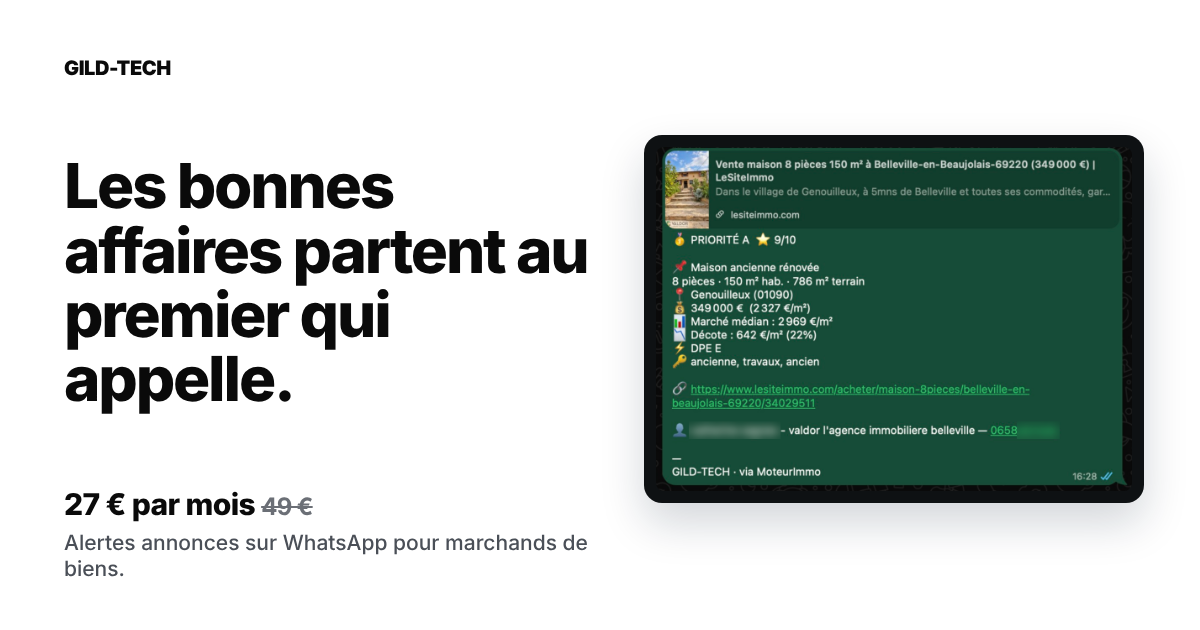
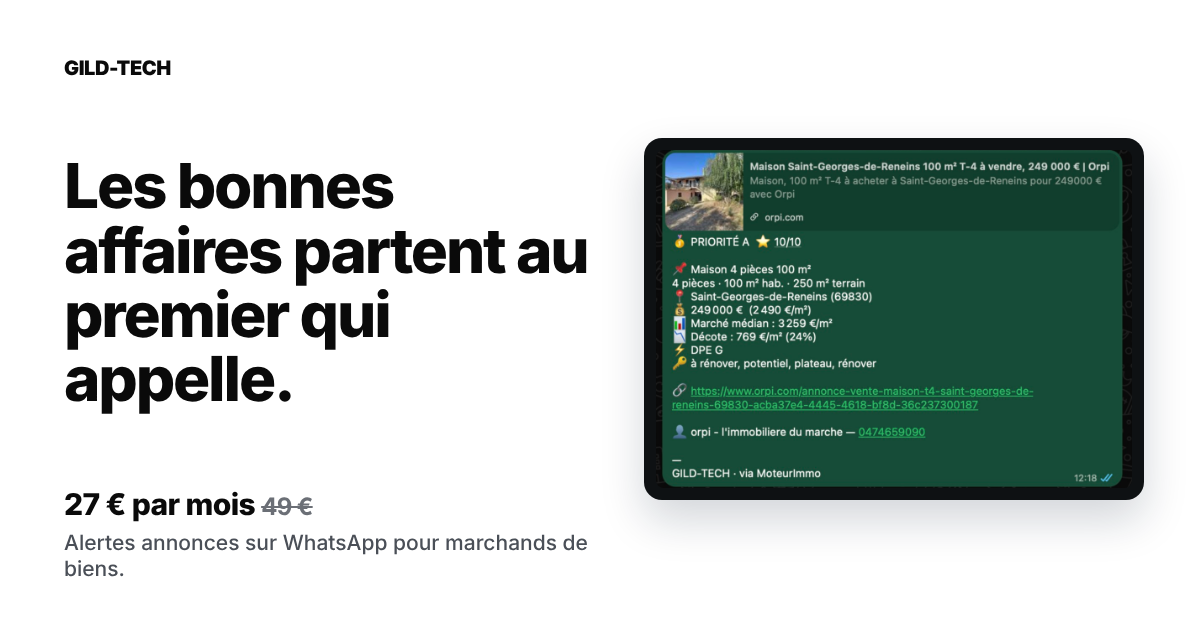
feat(mdb): deuxième capture d'alerte (Saint-Georges-de-Reneins, non floutée) au premier écran et dans l'aperçu de lien
Claude-Session: https://claude.ai/code/session_01GxLdkdFCM4VeScuBQsds1Y

Changed region(s): [[0.5242, 0.2111, 0.9558, 0.6937], [0.555, 0.7238, 0.9558, 0.8143]]

diff --git a/marchand-de-biens/index.html b/marchand-de-biens/index.html
@@ -255,10 +255,10 @@ footer { border-top: 1px solid var(--g200); padding: 2.5rem 2rem; }
         <p class="lancement"><strong>Offre de lancement jusqu'au 31&nbsp;octobre&nbsp;2026&nbsp;: 27&nbsp;€ par mois au lieu de <s>49&nbsp;€</s>.</strong> Sans engagement. Remboursé si vous arrêtez dans les 30&nbsp;jours.</p>
       </div>
       <div>
-        <div class="capture">
-          <img src="alerte-whatsapp.webp" width="1132" height="820" alt="Alerte WhatsApp réelle&nbsp;: maison de 150 m² à Genouilleux, 349 000 euros, 2 327 euros le mètre carré pour un marché médian à 2 969 euros, décote de 22 %, priorité A, note 9 sur 10, lien de l'annonce et téléphone de l'agence.">
-        </div>
-        <p class="capture-legende">Alerte réelle, reçue par un marchand de biens du Beaujolais.</p>
+        <a class="capture" href="alerte-whatsapp-2.png" target="_blank" rel="noopener" style="display:block">
+          <img src="alerte-whatsapp-2.webp" width="1132" height="806" alt="Alerte WhatsApp réelle : maison de 100 m² à Saint-Georges-de-Reneins, 249 000 euros, 2 490 euros le mètre carré pour un marché médian à 3 259 euros, décote de 24 %, DPE G, priorité A, lien de l'annonce et téléphone de l'agence.">
+        </a>
+        <p class="capture-legende">Alerte réelle du 8&nbsp;octobre&nbsp;2026, reçue par un marchand de biens du Beaujolais. Rien n'est retouché.</p>
       </div>
     </div>
 
@@ -306,7 +306,7 @@ footer { border-top: 1px solid var(--g200); padding: 2.5rem 2rem; }
         <a class="capture" href="alerte-whatsapp.png" target="_blank" rel="noopener" style="display:block">
           <img src="alerte-whatsapp.webp" width="1132" height="820" loading="lazy" alt="La même alerte WhatsApp en grand&nbsp;: priorité A, note 9 sur 10, 349 000 euros, marché médian 2 969 euros le mètre carré, décote 22 %, DPE E, mots-clés, lien et contact de l'annonceur.">
         </a>
-        <p class="capture-legende">Alerte réelle. Le nom et la fin du numéro de l'annonceur sont floutés sur cette page, pas dans vos alertes.</p>
+        <p class="capture-legende">Autre alerte réelle. Ici l'annonceur est une personne&nbsp;: son nom et la fin de son numéro sont floutés sur cette page, pas dans vos alertes.</p>
       </div>
       <ol class="demo-list">
         <li><strong>La priorité et la note sur 10.</strong> Vous savez tout de suite si l'annonce mérite votre attention.</li>
